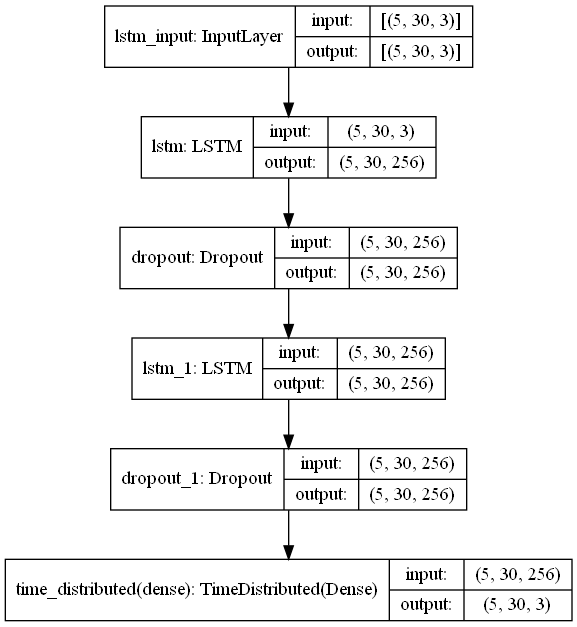
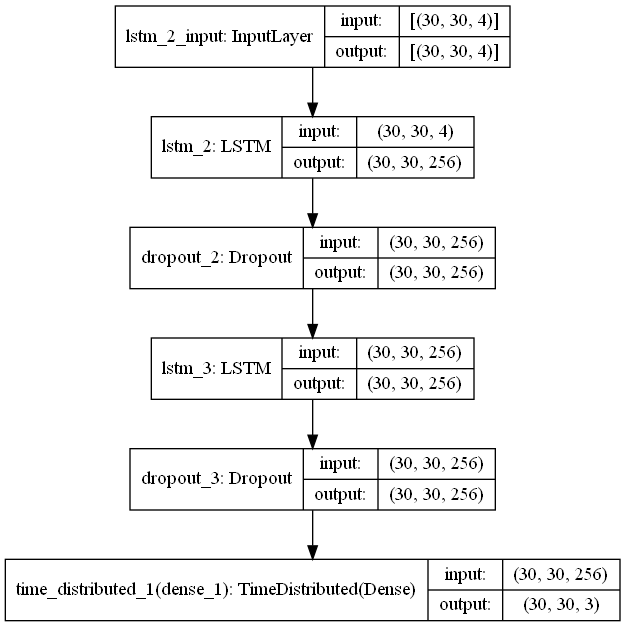
模型第一次训练成功

diff --git a/model_expriment/stateful_double_lstm_model_exp1.py b/model_expriment/stateful_double_lstm_model_exp1.py
@@ -29,7 +29,8 @@ def test_stateful_double_lstm_mode():
     nlos_sd = 45e-3
     ranging_batch = np.zeros(shape=(batch_size, step_num, len(anchors_loc)))
     for i in range(batch_size):
-        traj_batch[i] = generator_3d_trajectory(step_num=step_num, step_mode=i // 2, length=length, width=width, high=high,
+        traj_batch[i] = generator_3d_trajectory(step_num=step_num, step_mode=i // 2, length=length, width=width,
+                                                high=high,
                                                 z_high=z_high)
         ranging_batch[i], traj_batch[i] = generator_3d_ranging_data(traj_batch[i], anchors_loc, origin_coordinate,
                                                                     los_sd, nlos_bias, nlos_sd, 1)
@@ -40,6 +41,42 @@ def test_stateful_double_lstm_mode():
     model.fit(x=ranging_batch, y=traj_batch, batch_size=batch_size, epochs=100)
 
 
+def test_stateful_double_lstm_mode_2():
+    """
+    test_stateful_double_lstm_mode()函数的batch_size有问题,重新生成.
+    :return: 无返回值
+    """
+    # 仿真数据
+    batch_size = 30
+    step_num = 10_020
+    model_time_step = 30
+    traj_batch = np.zeros(shape=(batch_size, step_num, 3))
+    length = 10 * 1.13
+    width = 6 * 1.13
+    high = 3.5
+    z_high = 2.0
+    anchors_loc = np.array([[-3.29, 1.13, 1.66], [3.57, -1.13, 0.925], [3.57, 2.26, 1.950], [-2.26, 3.39, 2.230]])
+    origin_coordinate = np.array([4 * 1.13, 2 * 1.13, 0])
+    los_sd = 20e-3
+    nlos_bias = 0.6
+    nlos_sd = 45e-3
+    ranging_batch = np.zeros(shape=(batch_size, step_num, len(anchors_loc)))
+    for i in range(batch_size):
+        traj_batch[i] = generator_3d_trajectory(step_num=step_num, step_mode=i // 2, length=length, width=width,
+                                                high=high,
+                                                z_high=z_high)
+        ranging_batch[i], traj_batch[i] = generator_3d_ranging_data(traj_batch[i], anchors_loc, origin_coordinate,
+                                                                    los_sd, nlos_bias, nlos_sd, 1)
+    ranging_batch = ranging_batch.reshape((step_num // model_time_step * batch_size, model_time_step, len(anchors_loc)))
+    traj_batch = traj_batch.reshape((step_num // model_time_step * batch_size, model_time_step, 3))
+    # 当前x-(batch_size, step_num, anchors_loc), y-(batch_size, step_num, 3)
+    # 每个x输入维度与基站个数有关
+    # model
+    model = ModelFactory.product_model(ModelType.STATEFUL_DOUBLE_LSTM_MODEL_2, input_dim=4)
+    model.fit(x=ranging_batch, y=traj_batch, batch_size=batch_size, epochs=100)
+
+
 if __name__ == '__main__':
-    test_stateful_double_lstm_mode()
+    test_stateful_double_lstm_mode_2()
     pass
+

diff --git a/core/model/stateful_double_lstm_model.py b/core/model/stateful_double_lstm_model.py
@@ -5,9 +5,9 @@ from keras.utils import plot_model
 
 
 def generate_stateful_lstm_model(**kwargs) -> Sequential:
-    batch_size = kwargs.get('batch_size', 5)  # 训练样本批次
+    batch_size = kwargs.get('batch_size', 30)  # 训练样本批次
     time_step = kwargs.get('time_step', 30)  # 时间步长
-    input_dim = kwargs.get('input_dim', 3)  # x的特征数目
+    input_dim = kwargs.get('input_dim', 4)  # x的特征数目
     hidden_units = kwargs.get('hidden_units', 256)  # 隐藏层神经元个数
     dropout_rate = kwargs.get('dropout_rate', 0.2)  # 正则化层概率
 
@@ -24,6 +24,36 @@ def generate_stateful_lstm_model(**kwargs) -> Sequential:
     model.add(LSTM(units=hidden_units, activation='tanh',
                    recurrent_activation='relu', return_sequences=True,
                    stateful=True))
+    model.add(Dropout(dropout_rate))
+    model.add(TimeDistributed(Dense(3)))
+
+    # 未定义评价函数
+    model.compile(loss='mean_squared_error', optimizer='nadam')
+
+    plot_model(model, to_file='stateful_double_lstm_model.png', show_shapes=True)
+
+    return model
+
+
+def generate_stateful_lstm_model_2(**kwargs) -> Sequential:
+    batch_size = kwargs.get('batch_size', 30)  # 训练样本批次
+    time_step = kwargs.get('time_step', 30)  # 时间步长
+    input_dim = kwargs.get('input_dim', 4)  # x的特征数目
+    hidden_units = kwargs.get('hidden_units', 256)  # 隐藏层神经元个数
+    dropout_rate = kwargs.get('dropout_rate', 0.2)  # 正则化层概率
+
+    # 期望输入数据尺寸: (batch_size, time_step, input_dim)
+    # 请注意，我们必须提供完整的 batch_input_shape, 因为网络是有状态的。
+    # 第 k 批数据的第 i 个样本是第 k-1 批数据的第 i 个样本的后续。
+    # 关于 k 批的思考，多段路径对应批中的路径，不会发生混乱
+    model = Sequential()
+    # 个人猜测 recurrent_activation为门激活函数, activation为输入 c~的激活函数
+    model.add(LSTM(units=hidden_units, activation='tanh',
+                   recurrent_activation='sigmoid', return_sequences=True,
+                   stateful=True, batch_input_shape=(batch_size, time_step, input_dim)))
+    model.add(Dropout(dropout_rate))
+    model.add(LSTM(units=hidden_units, activation='tanh',
+                   recurrent_activation='relu', return_sequences=True))
     model.add(Dropout(dropout_rate))
     model.add(TimeDistributed(Dense(3)))
 

diff --git a/core/model_factory.py b/core/model_factory.py
@@ -1,6 +1,6 @@
 from enum import Enum
 
-from core.model.stateful_double_lstm_model import generate_stateful_lstm_model
+from core.model.stateful_double_lstm_model import generate_stateful_lstm_model, generate_stateful_lstm_model_2
 
 
 class ModelType(Enum):
@@ -8,6 +8,7 @@ class ModelType(Enum):
     枚举类, 此处用于ModelFactory简单工厂传参使用.
     """
     STATEFUL_DOUBLE_LSTM_MODEL = 1
+    STATEFUL_DOUBLE_LSTM_MODEL_2 = 1
 
 
 class ModelFactory(object):
@@ -18,5 +19,6 @@ class ModelFactory(object):
     @staticmethod
     def product_model(model_type: ModelType, **kwargs):
         return {
-            ModelType.STATEFUL_DOUBLE_LSTM_MODEL: generate_stateful_lstm_model(**kwargs)
+            ModelType.STATEFUL_DOUBLE_LSTM_MODEL: generate_stateful_lstm_model(**kwargs),
+            ModelType.STATEFUL_DOUBLE_LSTM_MODEL_2: generate_stateful_lstm_model_2(**kwargs)
         }.get(model_type, None)
